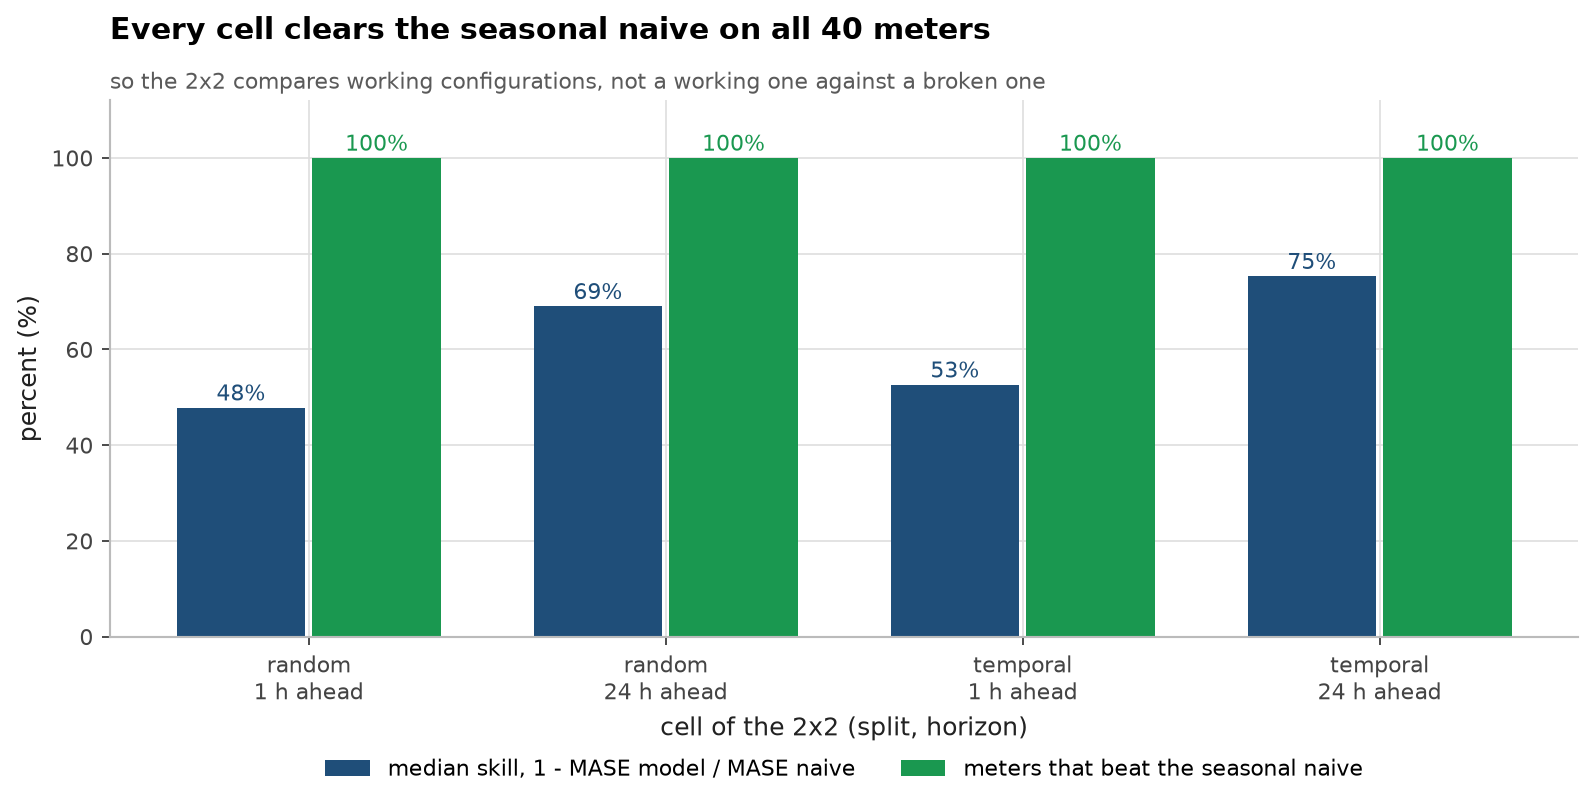
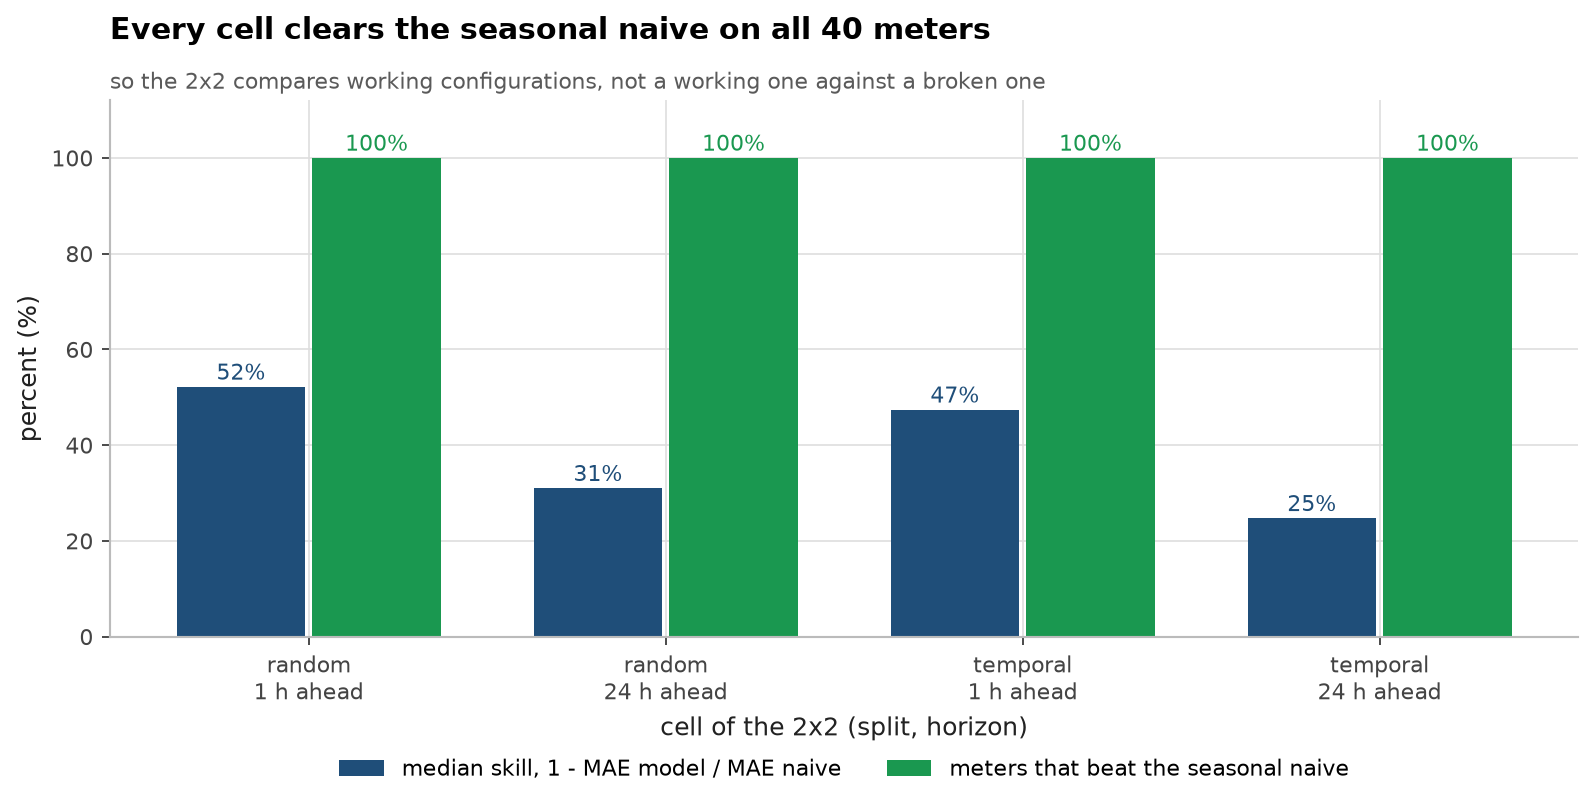
Plot skill as 1 minus the model/naive ratio, as the label says
skill() plotted skill_median from backtest.json, which is the ratio model MAE / naive MAE, under the legend "median skill, 1 - MASE model / MASE naive". The bars showed how much error was left, not how much was removed. It now plots 1 - ratio through a small skill_pct() helper that demo() checks. Bars: random h1 48% -> 52%, random h24 69% -> 31%, temporal h1 53% -> 47%, temporal h24 75% -> 25%.

diff --git a/src/fb/figures.py b/src/fb/figures.py
@@ -320,6 +320,13 @@ def dataset(out: Path) -> Path:
     return out
 
 
+def skill_pct(cell: dict) -> float:
+    """Skill in percent, 1 - model/naive. backtest.json stores the ratio itself
+    as skill_median, so plotting that field directly would show 100 minus the
+    skill under a label that says skill."""
+    return (1 - cell["skill_median"]) * 100
+
+
 def skill(out: Path) -> Path:
     """Skill over the naive baseline in each cell of the 2x2.
 
@@ -335,10 +342,10 @@ def skill(out: Path) -> Path:
 
     figure, ax = plt.subplots(figsize=(9.5, 5.0))
     positions = np.arange(len(labels))
-    skills = [cells[c]["skill_median"] * 100 for c in labels]
+    skills = [skill_pct(cells[c]) for c in labels]
     shares = [cells[c]["beats_naive_frac"] * 100 for c in labels]
     ax.bar(positions - 0.19, skills, 0.36, color=PALETTE[0], edgecolor="none",
-           label="median skill, 1 - MASE model / MASE naive")
+           label="median skill, 1 - MAE model / MAE naive")
     ax.bar(positions + 0.19, shares, 0.36, color=PALETTE[2], edgecolor="none",
            label="meters that beat the seasonal naive")
     for x, value in zip(positions, skills, strict=True):
@@ -385,6 +392,12 @@ def demo() -> None:
     assert abs(split / baseline * 100 - 4.1) < 0.1, split / baseline * 100
     assert abs(horizon / baseline * 100 - 42.1) < 0.1, horizon / baseline * 100
     assert horizon > split * 5, "the whole point is that the horizon dominates"
+
+    # The skill bars are 1 - model/naive, the quantity their label names. A model
+    # with half the naive error has 50% skill, not 50% as the raw ratio.
+    assert abs(skill_pct({"skill_median": 0.3}) - 70.0) < 1e-9
+    for c in cells.values():
+        assert (skill_pct(c) > 0) == (c["skill_median"] < 1)
     print("self-check ok")
 
 

diff --git a/NOTES.md b/NOTES.md
@@ -163,3 +163,11 @@ MASE at h=24 went from 1.5604 to 0.9888 (random) and from 1.5248 to 0.9542
 (temporal), and median model/naive ratio from 0.45 to 0.69 and from 0.48 to
 0.75. Every cell still beats the seasonal naive on all 40 series, so the claim
 stands, by a smaller margin at 24 hours.
+
+## 10. The skill bars showed the ratio, not the skill (2026-10-10)
+
+`reports/skill.png` plotted `skill_median`, which is model MAE over naive MAE,
+under a legend saying "1 - MASE model / MASE naive". A bar at 48% meant the
+model kept 48% of the naive error, not that it removed 48%. The figure now plots
+1 minus the ratio, so the bars read 52%, 31%, 47% and 25% skill, and the
+self-check pins that conversion.
